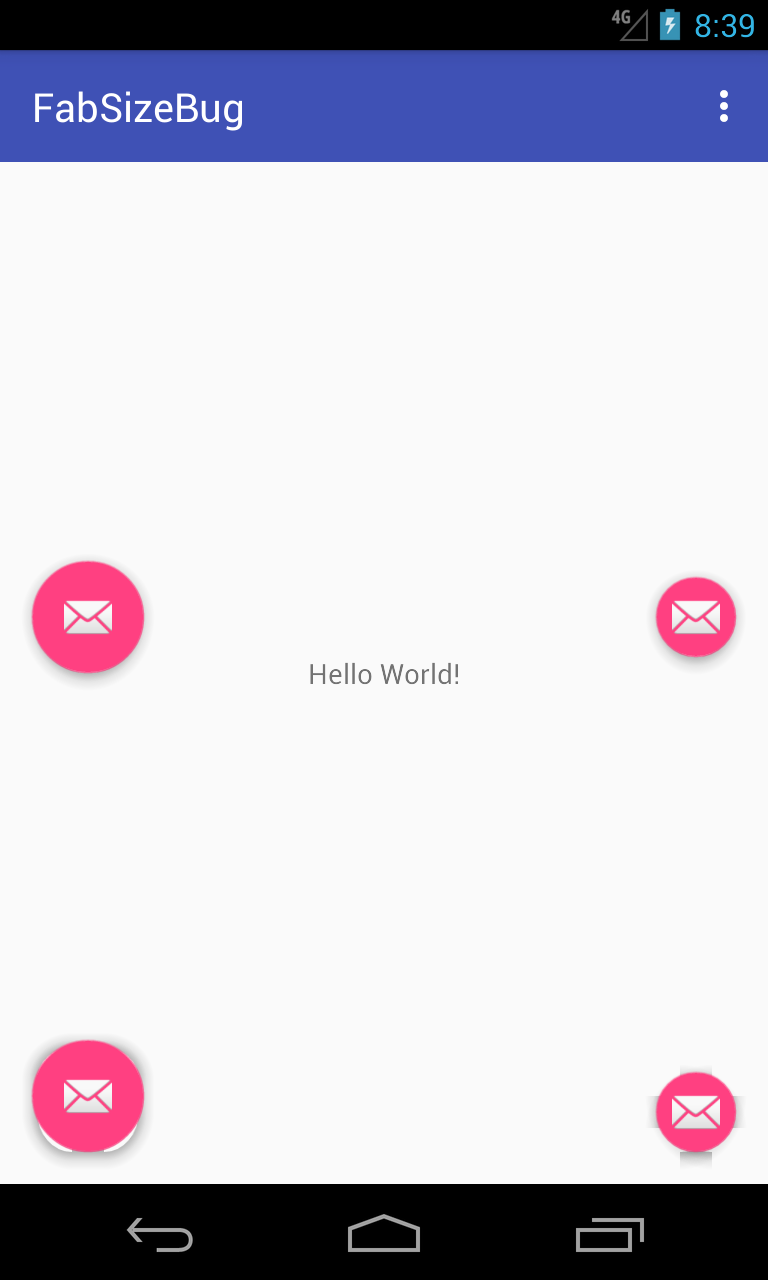
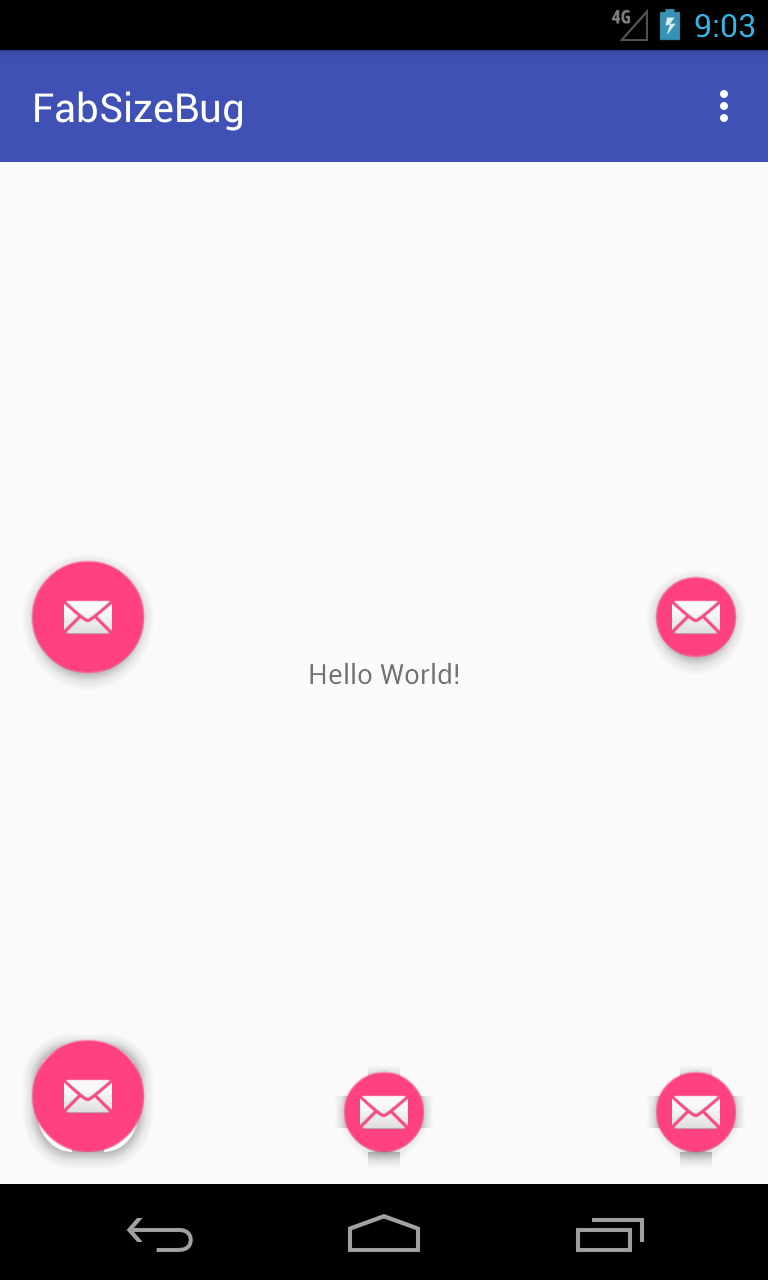
Same issue if FAB is created programmatically

Changed region(s): [[0.4375, 0.8125, 0.5625, 0.9062], [0.9062, 0.0, 1.0, 0.0312]]

diff --git a/app/src/main/java/com/leinardi/fabsizebug/MainActivity.java b/app/src/main/java/com/leinardi/fabsizebug/MainActivity.java
@@ -1,13 +1,16 @@
 package com.leinardi.fabsizebug;
 
 import android.os.Bundle;
+import android.support.design.widget.CoordinatorLayout;
 import android.support.design.widget.FloatingActionButton;
 import android.support.design.widget.Snackbar;
 import android.support.v7.app.AppCompatActivity;
 import android.support.v7.widget.Toolbar;
-import android.view.View;
+import android.view.Gravity;
 import android.view.Menu;
 import android.view.MenuItem;
+import android.view.View;
+import android.view.ViewGroup;
 
 public class MainActivity extends AppCompatActivity {
 
@@ -30,6 +33,24 @@ public class MainActivity extends AppCompatActivity {
 
         FloatingActionButton fab2 = (FloatingActionButton) findViewById(R.id.fab2);
         fab2.setSize(FloatingActionButton.SIZE_NORMAL);
+
+        FloatingActionButton fab5 = new FloatingActionButton(this);
+        fab5.setSize(FloatingActionButton.SIZE_MINI);
+        CoordinatorLayout.LayoutParams layoutParams = new CoordinatorLayout.LayoutParams(
+                ViewGroup.LayoutParams.WRAP_CONTENT,
+                ViewGroup.LayoutParams.WRAP_CONTENT);
+        layoutParams.gravity = Gravity.BOTTOM | Gravity.CENTER_HORIZONTAL;
+        int margin = getResources().getDimensionPixelOffset(R.dimen.fab_margin);
+        layoutParams.setMargins(
+                margin,
+                margin,
+                margin,
+                margin
+        );
+        fab5.setLayoutParams(layoutParams);
+        fab5.setImageResource(android.R.drawable.ic_dialog_email);
+
+        ((CoordinatorLayout) findViewById(R.id.root)).addView(fab5);
     }
 
     @Override
